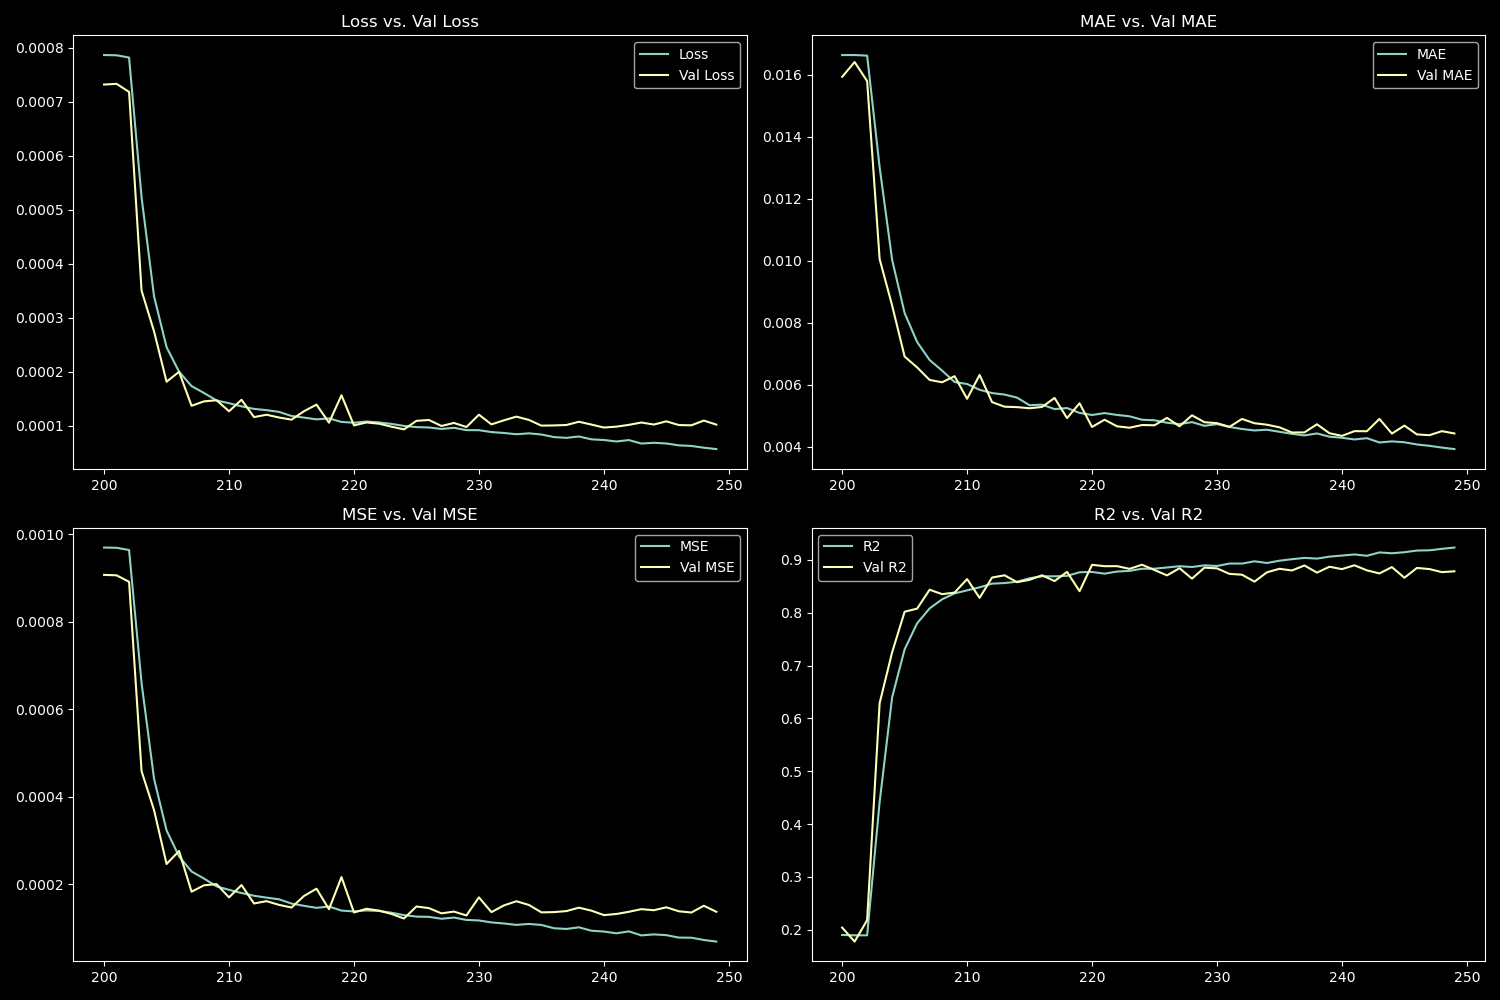
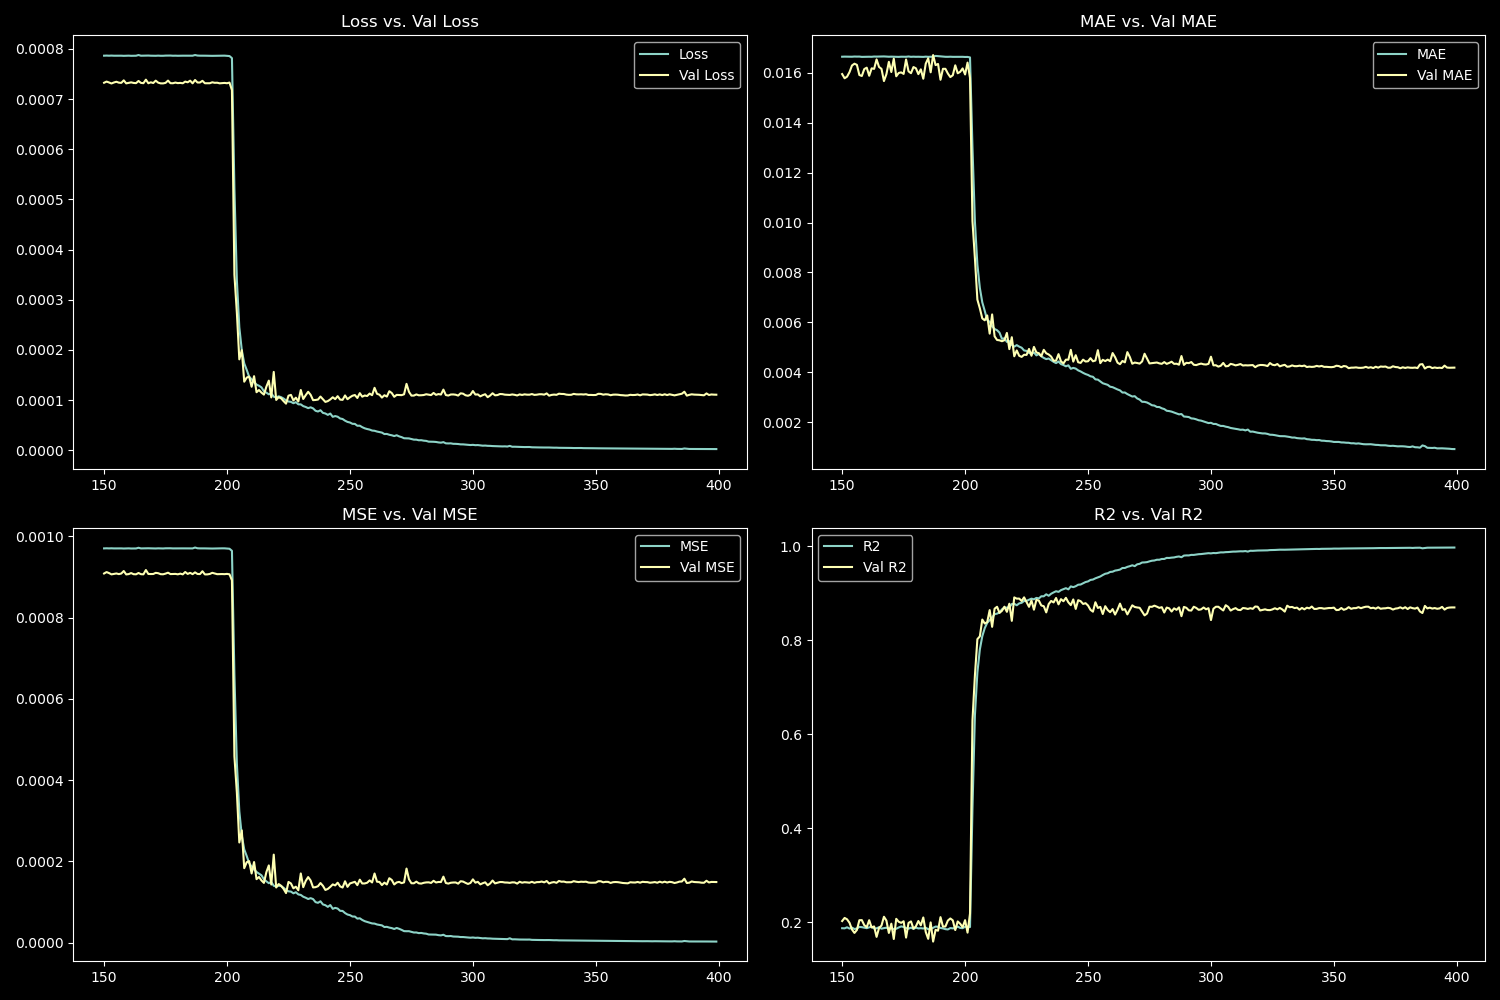
plots produced

diff --git a/training/results.py b/training/results.py
@@ -37,13 +37,15 @@ from modules.variables import (
 
 # Define data and smoothing points
 data = 'models_100k'
+NN = 'GRU'
+arch = '256x4'
 n_points = 0
 
 # Set up paths for logs and models
 path_to_logs.mkdir(parents=True, exist_ok=True)
 path_to_plots.mkdir(parents=True, exist_ok=True)
-result_dir = path_to_results / 'GRU' / '256x4'
-model_file_path = result_dir / 'GRU_model_norm.h5'
+result_dir = path_to_results / NN / arch
+model_file_path = result_dir / f'{NN}_model_norm.h5'
 path_to_data_scaler = path_to_data / data
 
 # Set up log configuration and create a logger for the fit
@@ -189,7 +191,7 @@ for idx, true_flux in enumerate(fluxes):
     axes[row_index, col_index].legend()    
 
 # Save the last plot to the specified directory
-plot_path = path_to_plots / "result_plot.png"
+plot_path = path_to_plots / f"{NN}_{arch}_results.png"
 plt.savefig(plot_path)
 logger.debug(f"Final plot saved to: {plot_path}")
 logger.debug("Script ended.")  # Log the end of the script    

diff --git a/training/plot_history.py b/training/plot_history.py
@@ -58,8 +58,8 @@ path_to_plots.mkdir(parents=True, exist_ok=True)
 logger = logging_conf(path_to_logs, f"plot_history.log")
 logger.debug("Script started.")
 
-model = 'GRU'
-model_name = '256x4'
+model = 'ANN'
+model_name = '256x6'
 model_dir = path_to_results / model
 logger.debug(f"Models: {model_dir}")
 
@@ -72,7 +72,7 @@ if history_filename.exists():
 else:
     logger.debug('No history')
 
-skip = 50
+skip = 10
 history_df = pd.DataFrame(existing_history)
 # Create a figure with subplots arranged in a 2x2 grid
 fig, axs = plt.subplots(2, 2, figsize=(15, 10))
